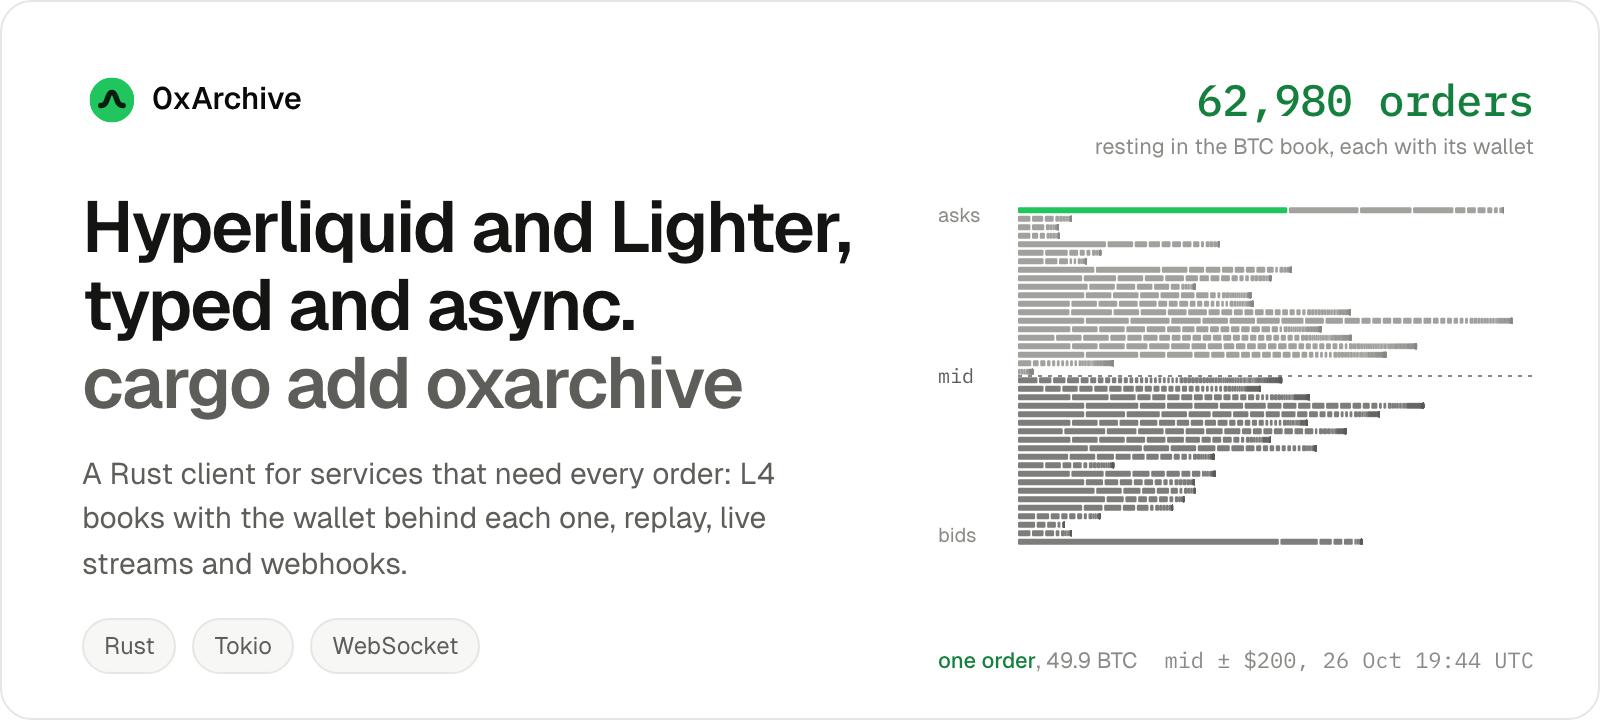
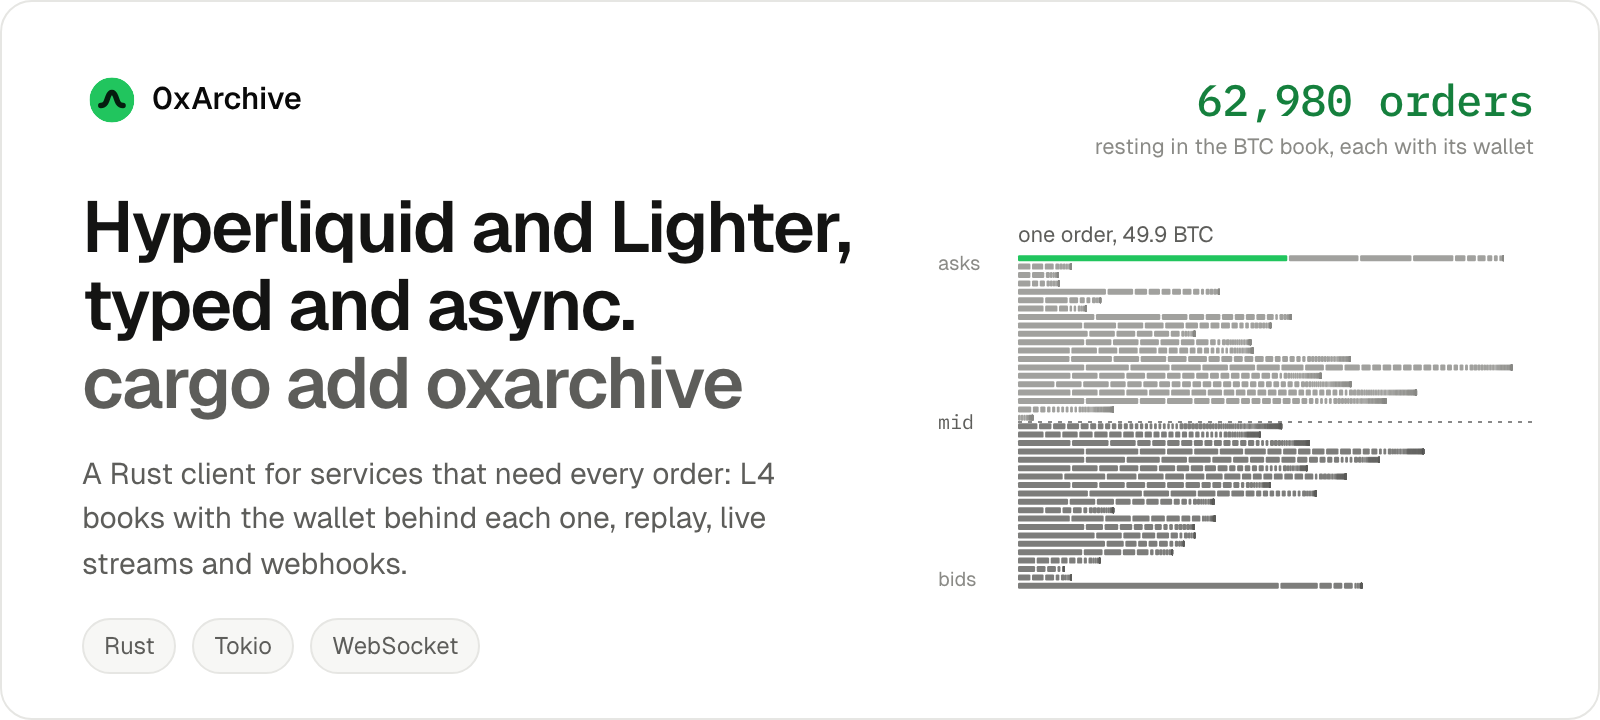
README: drop the dated captions from the hero and the intro

Changed region(s): [[0.5938, 0.275, 0.9375, 0.825], [0.5938, 0.8861, 0.75, 0.9472], [0.7812, 0.8861, 0.8125, 0.9472]]

diff --git a/README.md b/README.md
@@ -13,8 +13,6 @@
 
 Build async Rust services on Hyperliquid and Lighter market data: typed responses, cursor pagination, order book reconstruction, live streams and replay.
 
-<sub>The chart: an L4 snapshot of the Hyperliquid BTC book at 2026-10-26 19:44 UTC, every resting order within $200 of the mid as one brick. The full book held 62,980 orders from 6,975 wallets.</sub>
-
 ## Highlights
 
 - **Two venues, one client.** Hyperliquid core perps, HIP-3, HIP-4 and Spot, and Lighter on mainnet and Robinhood Chain, as `client.hyperliquid`, `client.hyperliquid.hip3`, `client.hyperliquid.hip4`, `client.spot`, `client.lighter` and `client.rh_lighter`.
